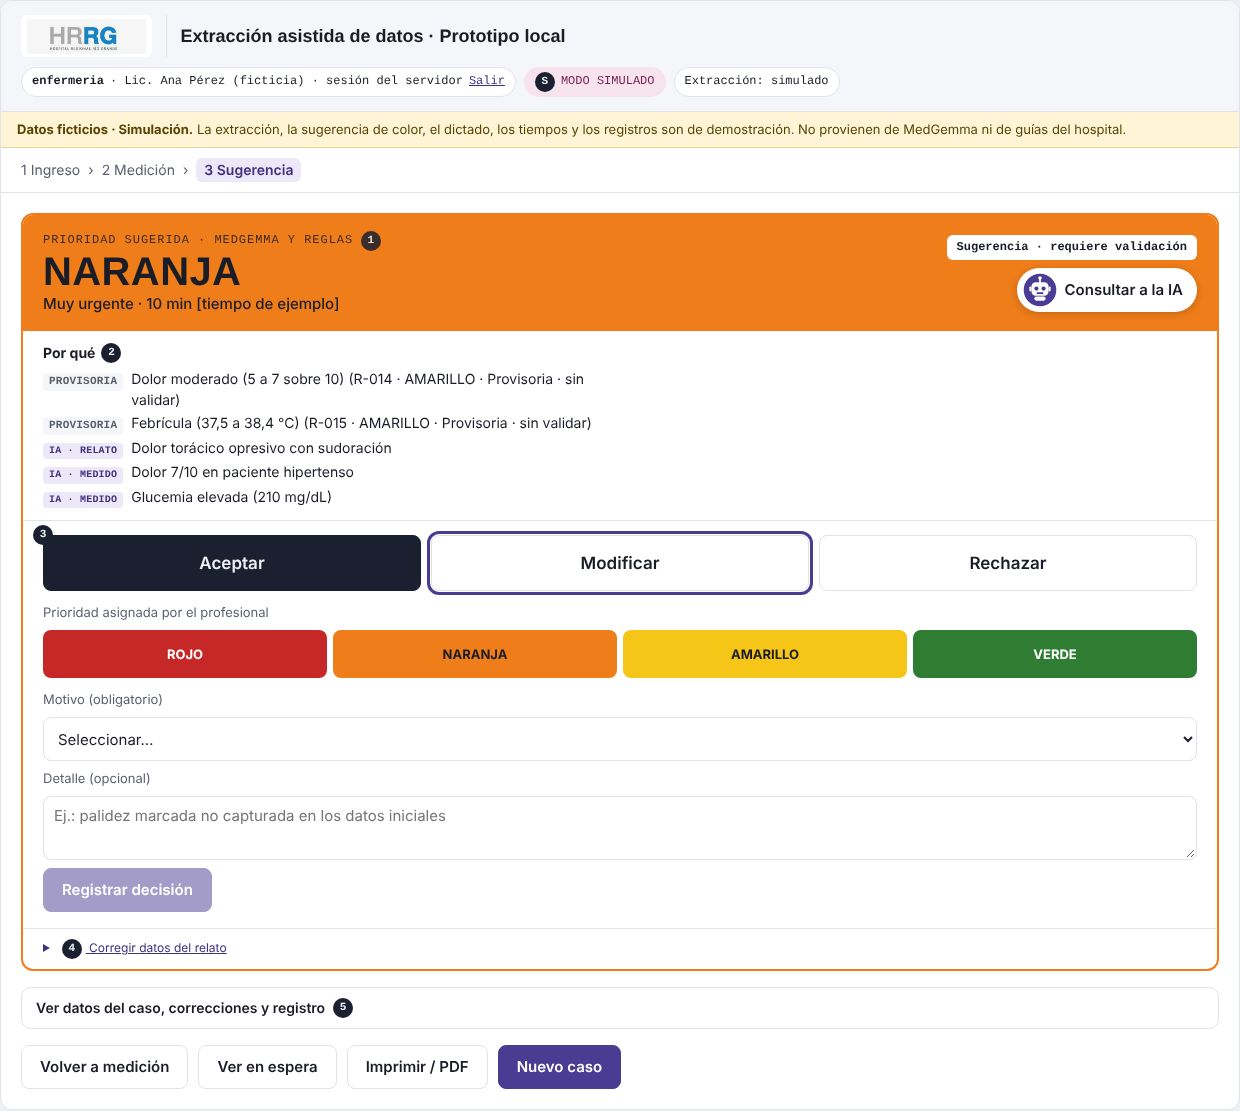
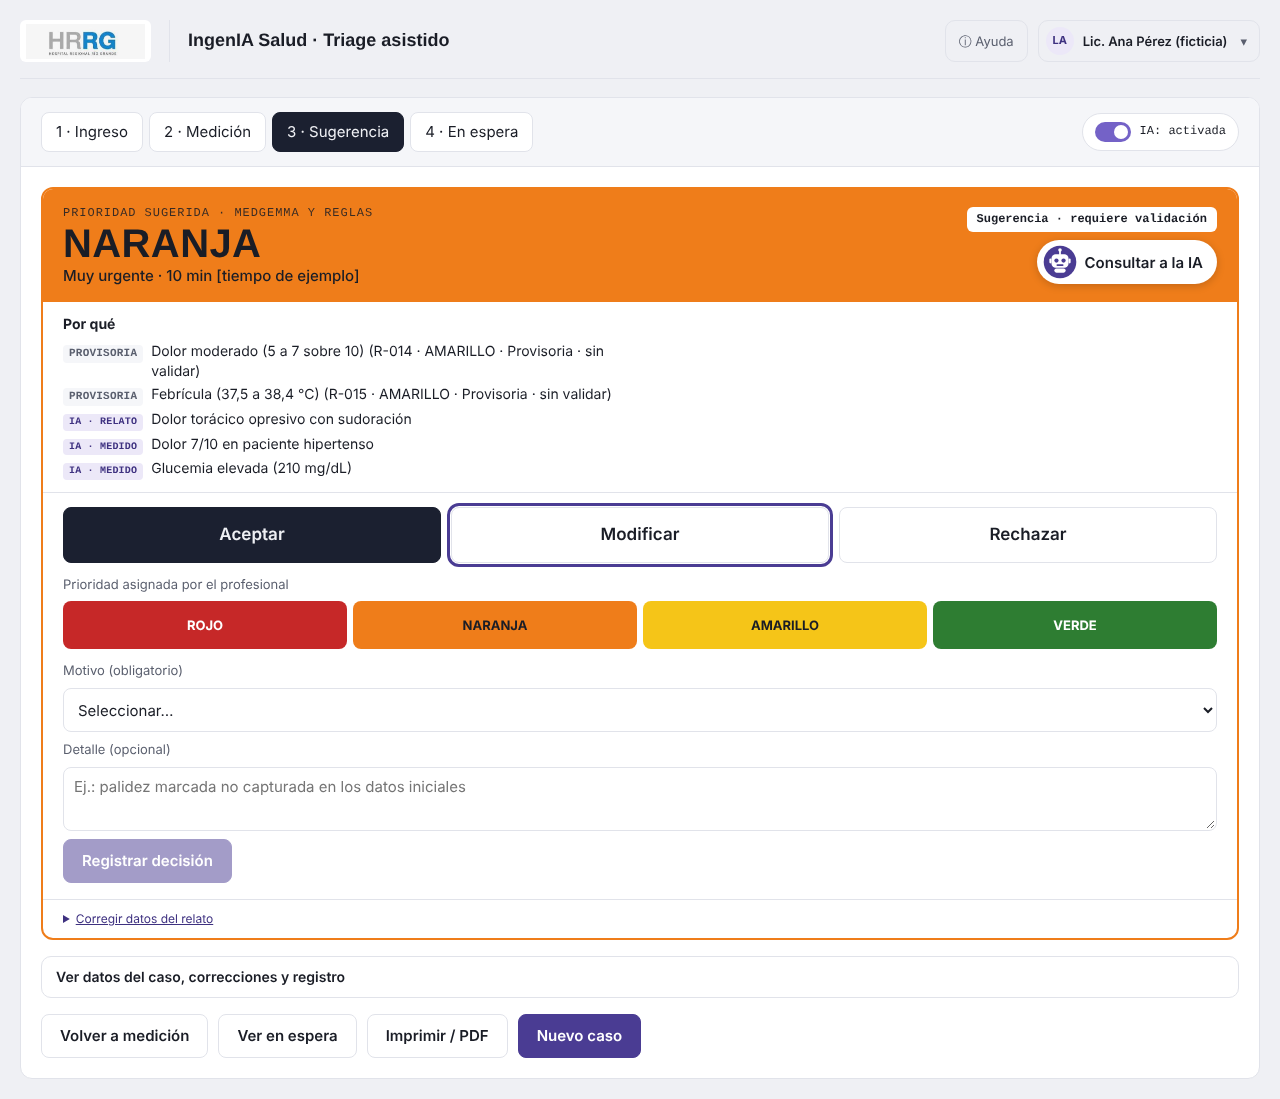
Manual de usuario actualizado con la interfaz nueva

Changed region(s): [[0.0, 0.0, 1.0, 0.99], [0.8274, 0.0309, 0.95, 0.0619], [0.7661, 0.0309, 0.7968, 0.0619]]

diff --git a/docs/manual_usuario.md b/docs/manual_usuario.md
@@ -1,7 +1,7 @@
 # Manual de usuario · Triage asistido por IA
 
 **Hospital Regional Río Grande (HRRG) · Equipo 1 · Prácticas Profesionalizantes II**
-**Versión:** prototipo local · **Actualizado:** 31/10/2026
+**Versión:** prototipo local · **Actualizado:** 11/11/2026
 
 > **Importante.** Es un **prototipo**. Usá solo **datos ficticios**: nada de nombres, domicilios, teléfonos ni casos reales.
 > El color lo sugiere **MedGemma** junto con las **reglas del hospital** (de referencia del Sistema Manchester y adaptaciones locales, **todavía sin validar** por Enfermería y Guardia del HRRG).
@@ -36,13 +36,16 @@ Ayuda a ordenar la atención en la guardia:
 5. El profesional **acepta, modifica o rechaza** la sugerencia. Todo queda registrado a su nombre.
 6. El paciente pasa a **En espera**, con un reloj que avisa cuándo hay que reevaluarlo.
 
-**Indicadores del encabezado:**
+**Lo que se ve arriba en todas las pantallas:**
 
-| Indicador | Qué significa |
+![Encabezado y menú del usuario](img/manual/22_menu_usuario.png)
+
+| Elemento | Qué hace |
 |---|---|
-| `enfermeria · Nombre · sesión del servidor` | Quién está usando el sistema. **Salir** cierra la sesión. |
-| **MODO SIMULADO** / **IA LOCAL · RESTO SIMULADO** | Si la extracción la hace MedGemma (IA local) o una simulación con casos de ejemplo. |
-| Banda amarilla | Recordatorio permanente: datos ficticios, la sugerencia es de demostración. |
+| **ⓘ Ayuda** | Abre y cierra un panel con la explicación de la pantalla en la que estás. |
+| **Menú del usuario** (tus iniciales y tu nombre) | Muestra con qué usuario entraste y tiene **Cerrar sesión**. Al perfil Auditoría también le muestra el enlace **Reglas del hospital**. |
+| **Pestañas 1 · Ingreso, 2 · Medición, 3 · Sugerencia, 4 · En espera** | Indican en qué paso estás. Se pueden tocar para ir de un paso a otro. |
+| **IA: activada / IA: desactivada** | Interruptor para usar o no la IA. Apagada, los datos del relato se completan a mano y el color sale de las reglas y del profesional (ver *Trabajar sin IA*, en la sección 4). |
 
 ---
 
@@ -65,6 +68,7 @@ Ayuda a ordenar la atención en la guardia:
 1. Escribí tu **usuario** y tu **contraseña**.
 2. Con el botón **Mostrar** ves lo que estás escribiendo. **Ocultar** lo vuelve a tapar.
 3. Tocá **Ingresar**.
+4. **¿Te olvidaste la contraseña?** Tocá **Olvidé mi contraseña**: te indica que la pidas a Administración con tu nombre de usuario. No compartas tu contraseña.
 
 **Clave temporal o contraseña vencida:** el sistema te lleva a **Cambiar contraseña** antes de seguir.
 
@@ -92,7 +96,7 @@ Ayuda a ordenar la atención en la guardia:
 
 ## 4. Triage paso a paso (Enfermería y Médico/a)
 
-Arriba se ve en qué paso estás: **1 Ingreso › 2 Medición › 3 Sugerencia**.
+Las pestañas de arriba muestran en qué paso estás: **1 · Ingreso**, **2 · Medición**, **3 · Sugerencia** y **4 · En espera**.
 
 ### Paso 1 · Ingreso (relato)
 
@@ -109,7 +113,7 @@ Arriba se ve en qué paso estás: **1 Ingreso › 2 Medición › 3 Sugerencia**
    - Con **Dictar** se transcribe la voz al cuadro. Después se puede corregir a mano.
    - Si el relato tiene un DNI o un teléfono, el sistema **avisa y no lo manda a la IA**. Hay que sacarlo con **Quitar dato y continuar**.
 4. Tocá **Extraer datos**.
-   - Mientras procesa, el botón queda bloqueado y arriba aparece **"Consultando al servidor…"**.
+   - Mientras procesa, el botón queda bloqueado y aparece un aviso de que se está procesando.
    - Con MedGemma, la primera vez puede tardar **1 o 2 minutos**.
    - La **categoría del motivo** (dolor torácico, fiebre, trauma, etc.) sale de palabras del relato. Lo que el paciente **niega** no cuenta: *"no me golpeé"* no lo pone como trauma.
    - Si algo falla, **el texto no se pierde**.
@@ -129,7 +133,7 @@ Arriba se ve en qué paso estás: **1 Ingreso › 2 Medición › 3 Sugerencia**
    **Lo que el paciente no dijo queda vacío, nunca en cero.**
    - El relato ya no se repite en esta pantalla: quedó en el paso 1.
 2. Completá **edad** y **sexo**. Si el relato los dice (*"tengo 27 años"*, *"soy mujer"*), ya vienen cargados y marcados para revisar.
-3. **Signos vitales** (①): TA, FC, FR, SpO₂, temperatura y glucemia (opcional).
+3. **Signos vitales:** TA, FC, FR, SpO₂, temperatura y glucemia (opcional).
    - **Enter** pasa al campo siguiente.
    - La **PAM** se calcula sola.
    - Debajo de cada campo está el **valor normal de referencia según la edad** del paciente (lactante, niño, adolescente, adulto o adulto mayor). Esos rangos los configura la Jefatura de Guardia (sección 8).
@@ -138,12 +142,21 @@ Arriba se ve en qué paso estás: **1 Ingreso › 2 Medición › 3 Sugerencia**
 4. **Conciencia, dolor y aspecto:**
    - Para la conciencia, alcanza con el **nivel de conciencia** *o* el **Glasgow**.
    - El **dolor** va de 0 a 10.
-5. **Banderas rojas** (②) y **Antecedentes** (③): se marcan con un toque. Lo que el paciente mencionó ya viene marcado (por ejemplo *"sangra"*, *"soy diabética"*), salvo que lo haya negado (*"sin sangrado"*). Revisalo siempre.
+5. **Banderas rojas** y **Antecedentes**: se marcan con un toque. Lo que el paciente mencionó ya viene marcado (por ejemplo *"sangra"*, *"soy diabética"*), salvo que lo haya negado (*"sin sangrado"*). Revisalo siempre.
 6. Abajo se avisa si **faltan datos**. Si faltan **3 o más signos vitales**, el sistema no sugiere color.
 7. Los botones:
-   - **Pedir sugerencia** (④): pasa al paso 3.
+   - **Pedir sugerencia:** pasa al paso 3.
    - **Clasificar sin IA**: elegís el color a mano. Está siempre disponible, por si la IA no anda.
    - **Volver al relato**: vuelve al paso 1.
+
+### Trabajar sin IA
+
+Si tocás el interruptor **IA: activada**, pasa a **IA: desactivada**:
+- En el paso 1, el botón dice **Continuar sin IA**: no se le manda el relato a la IA y los datos se completan a mano en el paso 2.
+- En el paso 2, el botón dice **Sin asistencia IA**, y **Clasificar sin IA** queda destacado: elegís el color vos.
+- Si la IA se cae sola, aparece el aviso **"La IA no está disponible"**. No se pierde nada de lo cargado.
+
+Para volver a usarla, tocá de nuevo el interruptor.
 
 ### Después de decidir: pantalla en blanco
 
@@ -153,10 +166,11 @@ Una vez que registraste la decisión (**Aceptar**, **Modificar** o **Rechazar**)
 
 ![Paso 3: sugerencia de color](img/manual/04_sugerencia.png)
 
-1. **Color sugerido** (①), con su tiempo de referencia. Arriba dice de dónde sale: *Prioridad sugerida · MedGemma y reglas*.
+1. **Color sugerido**, con su tiempo de referencia. Arriba dice de dónde sale: *Prioridad sugerida · MedGemma y reglas*.
    - Mientras MedGemma responde (unos segundos), la tarjeta queda gris con **"Analizando…"** y **Aceptar** está desactivado. Si una regla ya se cumple, avisa el color mínimo.
    - Si la IA no responde o está apagada, el color sale **solo de las reglas del hospital** (*Sin IA · reglas del hospital*). El triage sigue igual.
-2. **Por qué** (②): la explicación en palabras clínicas. Cada línea tiene una etiqueta que dice de dónde sale:
+   - Si entrás a **3 · Sugerencia** sin haber cargado el caso, la tarjeta dice **"Sin sugerencia · Cargá los datos del caso para continuar"** y muestra qué falta.
+2. **Por qué:** la explicación en palabras clínicas. Cada línea tiene una etiqueta que dice de dónde sale:
    - **MANCHESTER**, **HRRG** o **PROVISORIA**: una **regla del hospital** que se cumplió, con su código (por ejemplo R-014), su color y si está validada. La etiqueta indica el origen de la regla: Sistema Manchester, adaptación local del HRRG o provisoria (en revisión).
    - **IA · RELATO**: un motivo de MedGemma que sale de lo que contó el paciente.
    - **IA · MEDIDO**: un motivo de MedGemma que sale de lo que midió enfermería.
@@ -166,7 +180,7 @@ Una vez que registraste la decisión (**Aceptar**, **Modificar** o **Rechazar**)
    Las reglas fijan un piso: la IA no puede sugerir un color más bajo. Si una regla subió el color, la tarjeta lo dice (*"Color fijado por regla del hospital (R-…)"*). Las reglas que intervinieron quedan guardadas junto con tu decisión.
 3. **Falta:** si hay datos sin cargar, aparecen al lado del *Por qué*.
 4. **Consultar a la IA:** abre un chat con preguntas rápidas: *¿Por qué este color?*, *¿Qué datos faltan?*, *¿Qué lo haría subir?* (muestra las reglas del hospital que pondrían un color más urgente), *¿De dónde sale?* No diagnostica ni indica tratamientos.
-5. **Tu decisión** (③):
+5. **Tu decisión:**
    - **Aceptar:** con un toque queda registrado el color sugerido.
    - **Modificar** o **Rechazar:** elegís otro color (ROJO, NARANJA, AMARILLO o VERDE) y un **motivo (obligatorio)**, con un detalle opcional. Después tocás **Registrar decisión**.
      - Si elegís un color **más bajo** que el sugerido, hay que tildar la confirmación y queda registrado como **discrepancia**.
@@ -176,8 +190,8 @@ Una vez que registraste la decisión (**Aceptar**, **Modificar** o **Rechazar**)
 
    ![Modificar la sugerencia](img/manual/05_modificar.png)
 
-6. **Corregir datos del relato** (④): si la IA entendió algo mal, se corrige acá.
-7. **Ver datos del caso, correcciones y registro** (⑤): muestra el resumen con el origen de cada dato y el registro (fecha, usuario, decisión).
+6. **Corregir datos del relato:** si la IA entendió algo mal, se corrige acá.
+7. **Ver datos del caso, correcciones y registro:** muestra el resumen con el origen de cada dato y el registro (fecha, usuario, decisión).
 8. Los botones de abajo:
    - **Volver a medición**
    - **Ver en espera**
@@ -226,6 +240,8 @@ Es una pantalla **de consulta** para un televisor de la sala de espera, una tabl
 - **Más fácil, con el código QR:** en **En espera** tocá **QR de la sala**. Se abre una página con un código QR que ya trae la dirección correcta (con la IP de la PC). Apuntá la cámara del celular al código y tocá el enlace. La página se puede **imprimir** para pegar en la sala.
 
 ![Código QR de la lista de espera](img/manual/19_qr_sala.png)
+
+> **¿Lo pueden usar los pacientes con su celular?** Hoy, solo si su celular está conectado a la red del hospital. Para la sala de espera, lo recomendado es mostrar la lista en un televisor. Si el hospital quiere que los pacientes la vean en su celular, informática puede habilitar el acceso desde el Wi-Fi de invitados o publicar solo esta lista, que no tiene datos personales.
 
 | Vista pública · `sala.html` | Vista del personal · `sala.html?personal=1` |
 |---|---|
@@ -306,7 +322,7 @@ Tocá **Historial de casos**. El título cambia y la lista de espera se oculta. 
 
 ## 8. Reglas del hospital (Jefatura de Guardia)
 
-Los criterios clínicos **no están escritos en el programa**: las reglas, los tiempos por color y los rangos de los signos vitales están guardados en la base de datos y los administra la **Jefatura de Guardia** (perfil *Jefatura de Guardia*) en la pantalla **Reglas del hospital**. Auditoría la puede ver en solo lectura, desde el enlace *Reglas del hospital* del encabezado.
+Los criterios clínicos **no están escritos en el programa**: las reglas, los tiempos por color y los rangos de los signos vitales están guardados en la base de datos y los administra la **Jefatura de Guardia** (perfil *Jefatura de Guardia*) en la pantalla **Reglas del hospital**. Auditoría la puede ver en solo lectura, desde el enlace *Reglas del hospital* del **menú del usuario**.
 
 La pantalla tiene cinco pestañas: **Reglas**, **Tiempos por color**, **Signos vitales**, **Historial de cambios** y **Cómo funcionan**.
 
@@ -423,8 +439,8 @@ Son los rangos que ve Enfermería en el paso 2 (Medición), **según el grupo et
 | Me olvidé la contraseña | Administración te genera una **clave temporal**. Al entrar con ella, el sistema te pide una nueva. |
 | La extracción tarda mucho | Con MedGemma, la primera consulta puede tardar 1 o 2 minutos. El cartel "Sigue procesando…" es normal. |
 | La IA no responde | Seguí con **Clasificar sin IA**: el triage no depende de la IA. |
-| "Los datos de la exportación no son válidos" | El servidor quedó con una versión vieja. Cerrá la ventana del servidor y volvé a abrir `iniciar_con_ia.bat`. |
-| "Exportación bloqueada" | Pusiste mal la contraseña 3 veces. Cerrá sesión (**Salir**) y volvé a entrar. |
+| "Los datos de la exportación no son válidos" | El servidor quedó con una versión vieja. Cerrá la ventana del servidor y volvé a abrirlo. |
+| "Exportación bloqueada" | Pusiste mal la contraseña 3 veces. Cerrá sesión (**menú del usuario → Cerrar sesión**) y volvé a entrar. |
 | No puedo abrir el Excel o el PDF exportado | Te pide **tu** contraseña, la misma con la que entrás al sistema. |
 | El celular no abre `sala.html` | La PC y el celular tienen que estar en la misma red Wi-Fi, y la red tiene que permitir que los equipos se vean entre sí. Las redes de invitados suelen bloquearlo: consultá con informática. |
 | La pantalla de la sala dice "Sin conexión con el servidor" | Se cortó la red o se cerró el servidor. Mientras tanto se muestran los últimos datos; cuando vuelve la conexión, se actualiza sola. |
